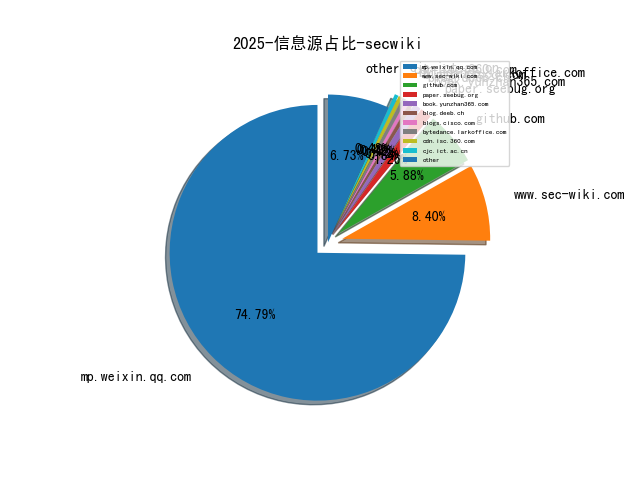
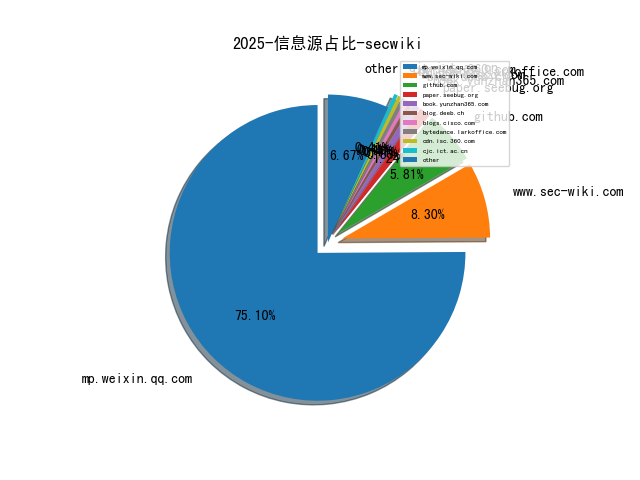
2025-07-04 00:07:00

diff --git a/README_20.md b/README_20.md
@@ -73,6 +73,8 @@
 # 网络安全书籍 推荐
 | date_added | language | title | author | link | size| 
 | --- | --- | --- | --- | --- | ---| 
+| 2025-07-04 13:46:09 | English | CompTIA Server+ Certification | unknown | https://www.wowebook.org/comptia-server-certification/ | unknown| 
+| 2025-07-04 13:32:12 | English | CompTIA CASP+ (CAS-005) Certification Guide, 2nd Edition | unknown | https://www.wowebook.org/comptia-casp-cas-005-certification-guide-2nd-edition/ | unknown| 
 | 2025-07-02 17:33:52 | English | Intermediate Python and Large Language Models | unknown | https://www.wowebook.org/intermediate-python-and-large-language-models/ | unknown| 
 | 2025-07-02 17:16:04 | English | NoOps: How AI Agents Are Reinventing DevOps and Software | unknown | https://www.wowebook.org/noops-how-ai-agents-are-reinventing-devops-and-software/ | unknown| 
 | 2025-07-02 16:13:07 | English | Refactoring to Rust | unknown | https://www.wowebook.org/refactoring-to-rust/ | unknown| 
@@ -1235,6 +1237,7 @@
 # 微信公众号 推荐
 | nickname_english | weixin_no | title | url| 
 | --- | --- | --- | ---| 
+| 法度 |  | 《治安管理处罚法》（ 2012版 VS 2025版）新旧对照表 | https://mp.weixin.qq.com/s/vmdPWvc_uYRrjdWmbtuafA | 1| 
 | 360数字安全 | None | 当校园安全遇上智能体，重庆大学如何让攻击无处遁形？ | https://mp.weixin.qq.com/s?__biz=MzA4MTg0MDQ4Nw==&mid=2247581131&idx=2&sn=1bb7581251b85092d80e0b27d30f6a83 | 272| 
 | ADLab | None | 【复现】Google Chrome浏览器在野利用漏洞（CVE-2025-6554） | https://mp.weixin.qq.com/s?__biz=Mzk1NzE0ODUyOA==&mid=2247492291&idx=1&sn=016611bd54e6385d9c7ac784ba2e1355 | 37| 
 | BlockSec | None | BlockSec 🤝 FinTax｜正式达成战略合作 | https://mp.weixin.qq.com/s?__biz=MzkyMzI2NzIyMw==&mid=2247489231&idx=1&sn=5c55b77b1025ca04183360824bb58d56 | 39| 
@@ -1329,7 +1332,7 @@
 | 珞安科技 | None | 闪耀羊城 , 珞安科技重磅亮相第二十届中国国际中小企业博览会 | https://mp.weixin.qq.com/s?__biz=MzU2NjI5NzY1OA==&mid=2247513251&idx=1&sn=fdacb13ecb7f89d70b17fc09dcdeb06c | 102| 
 | 生有可恋 | None | 企业级私有 docker 镜像仓库 Harbor | https://mp.weixin.qq.com/s?__biz=Mzk0MTI4NTIzNQ==&mid=2247494045&idx=1&sn=498a56f3486494fe7d5718a8e2b67fa2 | 131| 
 | 白帽子左一 | None | 车联网 , 汽车安全简介 | https://mp.weixin.qq.com/s?__biz=MzI4NTcxMjQ1MA==&mid=2247616564&idx=1&sn=670a8c153eae438339353fe851f6ff58 | 313| 
-| 看雪学苑 | None | 13岁少年Dylan发现 Teams 漏洞，微软为其修改赏金计划 | https://mp.weixin.qq.com/s?__biz=MjM5NTc2MDYxMw==&mid=2458596501&idx=3&sn=8d167e29f2f70304d76cb865431e2fad | 1114| 
+| 看雪学苑 | None | 13岁少年Dylan发现 Teams 漏洞，微软为其修改赏金计划 | https://mp.weixin.qq.com/s?__biz=MjM5NTc2MDYxMw==&mid=2458596501&idx=3&sn=8d167e29f2f70304d76cb865431e2fad | 1115| 
 | 知微守望 | quan9i | JAVA常见漏洞复现 | https://mp.weixin.qq.com/s?__biz=MzU2MjY1ODEwMA==&mid=2247492212&idx=1&sn=d5b473f62fc06b60c4bf8a71d3bd2de1 | 3| 
 | 知道创宇 | None | 知道创宇入选中国信通院云上大模型安全推进方阵首批成员单位 | https://mp.weixin.qq.com/s?__biz=MjM5NzA3Nzg2MA==&mid=2649871847&idx=1&sn=827f55fd3aa14b9dc55449129ab7e707 | 164| 
 | 神农Sec | None | 攻防演练｜分享最近一次攻防演练RTSP奇特之旅 | https://mp.weixin.qq.com/s?__biz=Mzk0Mzc1MTI2Nw==&mid=2247492377&idx=1&sn=a94ad30e30e08bd96e888dad744e9814 | 79| 
@@ -1631,7 +1634,7 @@
 | 取证与溯源 | None | Oracle备份异常处理实战：备份一体机故障复盘 | https://mp.weixin.qq.com/s?__biz=MzUyOTcyNDg1OA==&mid=2247484528&idx=1&sn=78bfe067c187251e7264c52d0ada6ce1 | 16| 
 | 嘉韦思 |  | 全国总工会第二届职工数字化应用技术技能大赛--数据安全管理员上海选拔赛暨第三届浦东新区数智未来守护者大赛正式启动 | https://mp.weixin.qq.com/s?__biz=MzIxNTA4OTI5Mg==&mid=2647713071&idx=1&sn=3b470ab6b3502f7f7a8d37e106aa2781 | 6| 
 | 复旦白泽战队 | None | JADE 6.0 新鲜出炉！14款多模态大模型幻觉频发，长推理模型也集体翻车？ | https://mp.weixin.qq.com/s?__biz=MzU4NzUxOTI0OQ==&mid=2247495368&idx=1&sn=4280dd19d32ddff81b89e630fa80c7b5 | 58| 
-| 安全学术圈 | 宋坤书 | 清华大学 , TFE-GNN：一种用于细粒度加密流量分类的基于图神经网络的时间融合编码器 | https://mp.weixin.qq.com/s/i1RrpveNLMj_kNR3oGIr3g?scene=1 | 389| 
+| 安全学术圈 | 宋坤书 | 清华大学 , TFE-GNN：一种用于细粒度加密流量分类的基于图神经网络的时间融合编码器 | https://mp.weixin.qq.com/s/i1RrpveNLMj_kNR3oGIr3g?scene=1 | 390| 
 | 安全聚 | None | 【漏洞预警】IBM WebSphere Application Server 远程代码执行漏洞(CVE-2025-36038) | https://mp.weixin.qq.com/s?__biz=MzkyNzQzNDI5OQ==&mid=2247486706&idx=1&sn=d9e5d1e4447758f5410a1fed8c43be42 | 39| 
 | 安全鸭 | None | 亲测AIFuzzing与XiaYue逻辑漏洞检测插件的区别：AI赋能的安全检测工具优势解析 | https://mp.weixin.qq.com/s?__biz=MjM5NDUxMTI2NA==&mid=2247485168&idx=1&sn=ccdbf7b18e4e2300a6fa0d4f9aafd306 | 4| 
 | 安圈评 | None | 高薪招聘-渗透测试工程师 | https://mp.weixin.qq.com/s?__biz=MzkwNTI4MTA1MQ==&mid=2247501268&idx=1&sn=c7da5d0543c15e38320f167deb0b5481 | 21| 

diff --git a/README_2025.md b/README_2025.md
@@ -21,6 +21,8 @@
 # 网络安全书籍 推荐
 | date_added | language | title | author | link | size| 
 | --- | --- | --- | --- | --- | ---| 
+| 2025-07-04 13:46:09 | English | CompTIA Server+ Certification | unknown | https://www.wowebook.org/comptia-server-certification/ | unknown| 
+| 2025-07-04 13:32:12 | English | CompTIA CASP+ (CAS-005) Certification Guide, 2nd Edition | unknown | https://www.wowebook.org/comptia-casp-cas-005-certification-guide-2nd-edition/ | unknown| 
 | 2025-07-02 17:33:52 | English | Intermediate Python and Large Language Models | unknown | https://www.wowebook.org/intermediate-python-and-large-language-models/ | unknown| 
 | 2025-07-02 17:16:04 | English | NoOps: How AI Agents Are Reinventing DevOps and Software | unknown | https://www.wowebook.org/noops-how-ai-agents-are-reinventing-devops-and-software/ | unknown| 
 | 2025-07-02 16:13:07 | English | Refactoring to Rust | unknown | https://www.wowebook.org/refactoring-to-rust/ | unknown| 
@@ -293,6 +295,7 @@
 # 微信公众号 推荐
 | nickname_english | weixin_no | title | url| 
 | --- | --- | --- | ---| 
+| 法度 |  | 《治安管理处罚法》（ 2012版 VS 2025版）新旧对照表 | https://mp.weixin.qq.com/s/vmdPWvc_uYRrjdWmbtuafA | 1| 
 | 360数字安全 | None | 当校园安全遇上智能体，重庆大学如何让攻击无处遁形？ | https://mp.weixin.qq.com/s?__biz=MzA4MTg0MDQ4Nw==&mid=2247581131&idx=2&sn=1bb7581251b85092d80e0b27d30f6a83 | 90| 
 | ADLab | None | 【复现】Google Chrome浏览器在野利用漏洞（CVE-2025-6554） | https://mp.weixin.qq.com/s?__biz=Mzk1NzE0ODUyOA==&mid=2247492291&idx=1&sn=016611bd54e6385d9c7ac784ba2e1355 | 7| 
 | BlockSec | None | BlockSec 🤝 FinTax｜正式达成战略合作 | https://mp.weixin.qq.com/s?__biz=MzkyMzI2NzIyMw==&mid=2247489231&idx=1&sn=5c55b77b1025ca04183360824bb58d56 | 26| 
@@ -387,7 +390,7 @@
 | 珞安科技 | None | 闪耀羊城 , 珞安科技重磅亮相第二十届中国国际中小企业博览会 | https://mp.weixin.qq.com/s?__biz=MzU2NjI5NzY1OA==&mid=2247513251&idx=1&sn=fdacb13ecb7f89d70b17fc09dcdeb06c | 39| 
 | 生有可恋 | None | 企业级私有 docker 镜像仓库 Harbor | https://mp.weixin.qq.com/s?__biz=Mzk0MTI4NTIzNQ==&mid=2247494045&idx=1&sn=498a56f3486494fe7d5718a8e2b67fa2 | 56| 
 | 白帽子左一 | None | 车联网 , 汽车安全简介 | https://mp.weixin.qq.com/s?__biz=MzI4NTcxMjQ1MA==&mid=2247616564&idx=1&sn=670a8c153eae438339353fe851f6ff58 | 28| 
-| 看雪学苑 | None | 13岁少年Dylan发现 Teams 漏洞，微软为其修改赏金计划 | https://mp.weixin.qq.com/s?__biz=MjM5NTc2MDYxMw==&mid=2458596501&idx=3&sn=8d167e29f2f70304d76cb865431e2fad | 322| 
+| 看雪学苑 | None | 13岁少年Dylan发现 Teams 漏洞，微软为其修改赏金计划 | https://mp.weixin.qq.com/s?__biz=MjM5NTc2MDYxMw==&mid=2458596501&idx=3&sn=8d167e29f2f70304d76cb865431e2fad | 323| 
 | 知微守望 | quan9i | JAVA常见漏洞复现 | https://mp.weixin.qq.com/s?__biz=MzU2MjY1ODEwMA==&mid=2247492212&idx=1&sn=d5b473f62fc06b60c4bf8a71d3bd2de1 | 3| 
 | 知道创宇 | None | 知道创宇入选中国信通院云上大模型安全推进方阵首批成员单位 | https://mp.weixin.qq.com/s?__biz=MjM5NzA3Nzg2MA==&mid=2649871847&idx=1&sn=827f55fd3aa14b9dc55449129ab7e707 | 40| 
 | 神农Sec | None | 攻防演练｜分享最近一次攻防演练RTSP奇特之旅 | https://mp.weixin.qq.com/s?__biz=Mzk0Mzc1MTI2Nw==&mid=2247492377&idx=1&sn=a94ad30e30e08bd96e888dad744e9814 | 63| 
@@ -689,7 +692,7 @@
 | 取证与溯源 | None | Oracle备份异常处理实战：备份一体机故障复盘 | https://mp.weixin.qq.com/s?__biz=MzUyOTcyNDg1OA==&mid=2247484528&idx=1&sn=78bfe067c187251e7264c52d0ada6ce1 | 11| 
 | 嘉韦思 |  | 全国总工会第二届职工数字化应用技术技能大赛--数据安全管理员上海选拔赛暨第三届浦东新区数智未来守护者大赛正式启动 | https://mp.weixin.qq.com/s?__biz=MzIxNTA4OTI5Mg==&mid=2647713071&idx=1&sn=3b470ab6b3502f7f7a8d37e106aa2781 | 5| 
 | 复旦白泽战队 | None | JADE 6.0 新鲜出炉！14款多模态大模型幻觉频发，长推理模型也集体翻车？ | https://mp.weixin.qq.com/s?__biz=MzU4NzUxOTI0OQ==&mid=2247495368&idx=1&sn=4280dd19d32ddff81b89e630fa80c7b5 | 11| 
-| 安全学术圈 | 宋坤书 | 清华大学 , TFE-GNN：一种用于细粒度加密流量分类的基于图神经网络的时间融合编码器 | https://mp.weixin.qq.com/s/i1RrpveNLMj_kNR3oGIr3g?scene=1 | 56| 
+| 安全学术圈 | 宋坤书 | 清华大学 , TFE-GNN：一种用于细粒度加密流量分类的基于图神经网络的时间融合编码器 | https://mp.weixin.qq.com/s/i1RrpveNLMj_kNR3oGIr3g?scene=1 | 57| 
 | 安全聚 | None | 【漏洞预警】IBM WebSphere Application Server 远程代码执行漏洞(CVE-2025-36038) | https://mp.weixin.qq.com/s?__biz=MzkyNzQzNDI5OQ==&mid=2247486706&idx=1&sn=d9e5d1e4447758f5410a1fed8c43be42 | 18| 
 | 安全鸭 | None | 亲测AIFuzzing与XiaYue逻辑漏洞检测插件的区别：AI赋能的安全检测工具优势解析 | https://mp.weixin.qq.com/s?__biz=MjM5NDUxMTI2NA==&mid=2247485168&idx=1&sn=ccdbf7b18e4e2300a6fa0d4f9aafd306 | 2| 
 | 安圈评 | None | 高薪招聘-渗透测试工程师 | https://mp.weixin.qq.com/s?__biz=MzkwNTI4MTA1MQ==&mid=2247501268&idx=1&sn=c7da5d0543c15e38320f167deb0b5481 | 3| 

diff --git a/README.md b/README.md
@@ -14,6 +14,8 @@
 # 网络安全书籍 推荐
 | date_added | language | title | author | link | size| 
 | --- | --- | --- | --- | --- | ---| 
+| 2025-07-04 13:46:09 | English | CompTIA Server+ Certification | unknown | https://www.wowebook.org/comptia-server-certification/ | unknown| 
+| 2025-07-04 13:32:12 | English | CompTIA CASP+ (CAS-005) Certification Guide, 2nd Edition | unknown | https://www.wowebook.org/comptia-casp-cas-005-certification-guide-2nd-edition/ | unknown| 
 | 2025-07-02 17:33:52 | English | Intermediate Python and Large Language Models | unknown | https://www.wowebook.org/intermediate-python-and-large-language-models/ | unknown| 
 | 2025-07-02 17:16:04 | English | NoOps: How AI Agents Are Reinventing DevOps and Software | unknown | https://www.wowebook.org/noops-how-ai-agents-are-reinventing-devops-and-software/ | unknown| 
 | 2025-07-02 16:13:07 | English | Refactoring to Rust | unknown | https://www.wowebook.org/refactoring-to-rust/ | unknown| 
@@ -24,6 +26,7 @@
 # 微信公众号 推荐
 | nickname_english | weixin_no | title | url| 
 | --- | --- | --- | ---| 
+| 法度 |  | 《治安管理处罚法》（ 2012版 VS 2025版）新旧对照表 | https://mp.weixin.qq.com/s/vmdPWvc_uYRrjdWmbtuafA | 1| 
 | 360数字安全 | None | 当校园安全遇上智能体，重庆大学如何让攻击无处遁形？ | https://mp.weixin.qq.com/s?__biz=MzA4MTg0MDQ4Nw==&mid=2247581131&idx=2&sn=1bb7581251b85092d80e0b27d30f6a83 | 3| 
 | ADLab | None | 【复现】Google Chrome浏览器在野利用漏洞（CVE-2025-6554） | https://mp.weixin.qq.com/s?__biz=Mzk1NzE0ODUyOA==&mid=2247492291&idx=1&sn=016611bd54e6385d9c7ac784ba2e1355 | 1| 
 | BlockSec | None | BlockSec 🤝 FinTax｜正式达成战略合作 | https://mp.weixin.qq.com/s?__biz=MzkyMzI2NzIyMw==&mid=2247489231&idx=1&sn=5c55b77b1025ca04183360824bb58d56 | 2| 
@@ -118,7 +121,7 @@
 | 珞安科技 | None | 闪耀羊城 , 珞安科技重磅亮相第二十届中国国际中小企业博览会 | https://mp.weixin.qq.com/s?__biz=MzU2NjI5NzY1OA==&mid=2247513251&idx=1&sn=fdacb13ecb7f89d70b17fc09dcdeb06c | 2| 
 | 生有可恋 | None | 企业级私有 docker 镜像仓库 Harbor | https://mp.weixin.qq.com/s?__biz=Mzk0MTI4NTIzNQ==&mid=2247494045&idx=1&sn=498a56f3486494fe7d5718a8e2b67fa2 | 2| 
 | 白帽子左一 | None | 车联网 , 汽车安全简介 | https://mp.weixin.qq.com/s?__biz=MzI4NTcxMjQ1MA==&mid=2247616564&idx=1&sn=670a8c153eae438339353fe851f6ff58 | 2| 
-| 看雪学苑 | None | 13岁少年Dylan发现 Teams 漏洞，微软为其修改赏金计划 | https://mp.weixin.qq.com/s?__biz=MjM5NTc2MDYxMw==&mid=2458596501&idx=3&sn=8d167e29f2f70304d76cb865431e2fad | 6| 
+| 看雪学苑 | None | 13岁少年Dylan发现 Teams 漏洞，微软为其修改赏金计划 | https://mp.weixin.qq.com/s?__biz=MjM5NTc2MDYxMw==&mid=2458596501&idx=3&sn=8d167e29f2f70304d76cb865431e2fad | 7| 
 | 知微守望 | quan9i | JAVA常见漏洞复现 | https://mp.weixin.qq.com/s?__biz=MzU2MjY1ODEwMA==&mid=2247492212&idx=1&sn=d5b473f62fc06b60c4bf8a71d3bd2de1 | 1| 
 | 知道创宇 | None | 知道创宇入选中国信通院云上大模型安全推进方阵首批成员单位 | https://mp.weixin.qq.com/s?__biz=MjM5NzA3Nzg2MA==&mid=2649871847&idx=1&sn=827f55fd3aa14b9dc55449129ab7e707 | 2| 
 | 神农Sec | None | 攻防演练｜分享最近一次攻防演练RTSP奇特之旅 | https://mp.weixin.qq.com/s?__biz=Mzk0Mzc1MTI2Nw==&mid=2247492377&idx=1&sn=a94ad30e30e08bd96e888dad744e9814 | 2| 
@@ -268,7 +271,7 @@
 | 安全分析与研究 | None | BlackMatter勒索病毒构建器样本分析 | https://mp.weixin.qq.com/s?__biz=MzA4ODEyODA3MQ==&mid=2247492576&idx=1&sn=1a076806a9edc715d1371e4e63c91f10 | 1| 
 | 安全喵喵站 | None | SASE独角兽完成26亿融资，估值348亿！ | https://mp.weixin.qq.com/s?__biz=MzkzNjE5NjQ4Mw==&mid=2247544562&idx=2&sn=22816a800e3702a0fcae1cfb9b8e9cd9 | 2| 
 | 安全圈 | None | 【安全圈】危险警告！D-Link 多款路由器曝出严重漏洞，建议立即停用 | https://mp.weixin.qq.com/s?__biz=MzIzMzE4NDU1OQ==&mid=2652070451&idx=4&sn=1ae1f2640c97ff21fa27bdfc9eefb3dd | 4| 
-| 安全学术圈 | 谢启亮 | 纽约大学 , RTL-Breaker: 评估LLM在HDL代码生成中对抗后门攻击的安全性 | https://mp.weixin.qq.com/s/LFAbqqqF7AQbw9ijIr8HSg?scene=1 | 2| 
+| 安全学术圈 | 谢启亮 | 纽约大学 , RTL-Breaker: 评估LLM在HDL代码生成中对抗后门攻击的安全性 | https://mp.weixin.qq.com/s/LFAbqqqF7AQbw9ijIr8HSg?scene=1 | 3| 
 | 安全有术 | 刘顺 | 安全新规 , GB/T45654-2025《网络安全技术 生成式人工智能服务安全基本要求》 | https://mp.weixin.qq.com/s?__biz=MzkzMDY2MDA2Ng==&mid=2247486073&idx=1&sn=f52b153df35b580fbb2136932b7c1010 | 1| 
 | 安全极客 | None | 【论文速读】, FuncVul——基于LLM与代码块的高效函数级漏洞检测模型 | https://mp.weixin.qq.com/s?__biz=MzkzNDUxOTk2Mw==&mid=2247496737&idx=1&sn=370c593f1bce328f065b2ee3561a83bb | 1| 
 | 安全狐 | None | 【必查漏洞】Sudo chroot 权限提升漏洞(CVE-2025-32463)检测手册 | https://mp.weixin.qq.com/s?__biz=MzIwNDYwMDcyNQ==&mid=2247489022&idx=2&sn=53623527ace09a34e233e4c555c6c6f8 | 2| 

diff --git a/README_202507.md b/README_202507.md
@@ -14,6 +14,8 @@
 # 网络安全书籍 推荐
 | date_added | language | title | author | link | size| 
 | --- | --- | --- | --- | --- | ---| 
+| 2025-07-04 13:46:09 | English | CompTIA Server+ Certification | unknown | https://www.wowebook.org/comptia-server-certification/ | unknown| 
+| 2025-07-04 13:32:12 | English | CompTIA CASP+ (CAS-005) Certification Guide, 2nd Edition | unknown | https://www.wowebook.org/comptia-casp-cas-005-certification-guide-2nd-edition/ | unknown| 
 | 2025-07-02 17:33:52 | English | Intermediate Python and Large Language Models | unknown | https://www.wowebook.org/intermediate-python-and-large-language-models/ | unknown| 
 | 2025-07-02 17:16:04 | English | NoOps: How AI Agents Are Reinventing DevOps and Software | unknown | https://www.wowebook.org/noops-how-ai-agents-are-reinventing-devops-and-software/ | unknown| 
 | 2025-07-02 16:13:07 | English | Refactoring to Rust | unknown | https://www.wowebook.org/refactoring-to-rust/ | unknown| 
@@ -24,6 +26,7 @@
 # 微信公众号 推荐
 | nickname_english | weixin_no | title | url| 
 | --- | --- | --- | ---| 
+| 法度 |  | 《治安管理处罚法》（ 2012版 VS 2025版）新旧对照表 | https://mp.weixin.qq.com/s/vmdPWvc_uYRrjdWmbtuafA | 1| 
 | 360数字安全 | None | 当校园安全遇上智能体，重庆大学如何让攻击无处遁形？ | https://mp.weixin.qq.com/s?__biz=MzA4MTg0MDQ4Nw==&mid=2247581131&idx=2&sn=1bb7581251b85092d80e0b27d30f6a83 | 3| 
 | ADLab | None | 【复现】Google Chrome浏览器在野利用漏洞（CVE-2025-6554） | https://mp.weixin.qq.com/s?__biz=Mzk1NzE0ODUyOA==&mid=2247492291&idx=1&sn=016611bd54e6385d9c7ac784ba2e1355 | 1| 
 | BlockSec | None | BlockSec 🤝 FinTax｜正式达成战略合作 | https://mp.weixin.qq.com/s?__biz=MzkyMzI2NzIyMw==&mid=2247489231&idx=1&sn=5c55b77b1025ca04183360824bb58d56 | 2| 
@@ -118,7 +121,7 @@
 | 珞安科技 | None | 闪耀羊城 , 珞安科技重磅亮相第二十届中国国际中小企业博览会 | https://mp.weixin.qq.com/s?__biz=MzU2NjI5NzY1OA==&mid=2247513251&idx=1&sn=fdacb13ecb7f89d70b17fc09dcdeb06c | 2| 
 | 生有可恋 | None | 企业级私有 docker 镜像仓库 Harbor | https://mp.weixin.qq.com/s?__biz=Mzk0MTI4NTIzNQ==&mid=2247494045&idx=1&sn=498a56f3486494fe7d5718a8e2b67fa2 | 2| 
 | 白帽子左一 | None | 车联网 , 汽车安全简介 | https://mp.weixin.qq.com/s?__biz=MzI4NTcxMjQ1MA==&mid=2247616564&idx=1&sn=670a8c153eae438339353fe851f6ff58 | 2| 
-| 看雪学苑 | None | 13岁少年Dylan发现 Teams 漏洞，微软为其修改赏金计划 | https://mp.weixin.qq.com/s?__biz=MjM5NTc2MDYxMw==&mid=2458596501&idx=3&sn=8d167e29f2f70304d76cb865431e2fad | 6| 
+| 看雪学苑 | None | 13岁少年Dylan发现 Teams 漏洞，微软为其修改赏金计划 | https://mp.weixin.qq.com/s?__biz=MjM5NTc2MDYxMw==&mid=2458596501&idx=3&sn=8d167e29f2f70304d76cb865431e2fad | 7| 
 | 知微守望 | quan9i | JAVA常见漏洞复现 | https://mp.weixin.qq.com/s?__biz=MzU2MjY1ODEwMA==&mid=2247492212&idx=1&sn=d5b473f62fc06b60c4bf8a71d3bd2de1 | 1| 
 | 知道创宇 | None | 知道创宇入选中国信通院云上大模型安全推进方阵首批成员单位 | https://mp.weixin.qq.com/s?__biz=MjM5NzA3Nzg2MA==&mid=2649871847&idx=1&sn=827f55fd3aa14b9dc55449129ab7e707 | 2| 
 | 神农Sec | None | 攻防演练｜分享最近一次攻防演练RTSP奇特之旅 | https://mp.weixin.qq.com/s?__biz=Mzk0Mzc1MTI2Nw==&mid=2247492377&idx=1&sn=a94ad30e30e08bd96e888dad744e9814 | 2| 
@@ -268,7 +271,7 @@
 | 安全分析与研究 | None | BlackMatter勒索病毒构建器样本分析 | https://mp.weixin.qq.com/s?__biz=MzA4ODEyODA3MQ==&mid=2247492576&idx=1&sn=1a076806a9edc715d1371e4e63c91f10 | 1| 
 | 安全喵喵站 | None | SASE独角兽完成26亿融资，估值348亿！ | https://mp.weixin.qq.com/s?__biz=MzkzNjE5NjQ4Mw==&mid=2247544562&idx=2&sn=22816a800e3702a0fcae1cfb9b8e9cd9 | 2| 
 | 安全圈 | None | 【安全圈】危险警告！D-Link 多款路由器曝出严重漏洞，建议立即停用 | https://mp.weixin.qq.com/s?__biz=MzIzMzE4NDU1OQ==&mid=2652070451&idx=4&sn=1ae1f2640c97ff21fa27bdfc9eefb3dd | 4| 
-| 安全学术圈 | 谢启亮 | 纽约大学 , RTL-Breaker: 评估LLM在HDL代码生成中对抗后门攻击的安全性 | https://mp.weixin.qq.com/s/LFAbqqqF7AQbw9ijIr8HSg?scene=1 | 2| 
+| 安全学术圈 | 谢启亮 | 纽约大学 , RTL-Breaker: 评估LLM在HDL代码生成中对抗后门攻击的安全性 | https://mp.weixin.qq.com/s/LFAbqqqF7AQbw9ijIr8HSg?scene=1 | 3| 
 | 安全有术 | 刘顺 | 安全新规 , GB/T45654-2025《网络安全技术 生成式人工智能服务安全基本要求》 | https://mp.weixin.qq.com/s?__biz=MzkzMDY2MDA2Ng==&mid=2247486073&idx=1&sn=f52b153df35b580fbb2136932b7c1010 | 1| 
 | 安全极客 | None | 【论文速读】, FuncVul——基于LLM与代码块的高效函数级漏洞检测模型 | https://mp.weixin.qq.com/s?__biz=MzkzNDUxOTk2Mw==&mid=2247496737&idx=1&sn=370c593f1bce328f065b2ee3561a83bb | 1| 
 | 安全狐 | None | 【必查漏洞】Sudo chroot 权限提升漏洞(CVE-2025-32463)检测手册 | https://mp.weixin.qq.com/s?__biz=MzIwNDYwMDcyNQ==&mid=2247489022&idx=2&sn=53623527ace09a34e233e4c555c6c6f8 | 2| 
